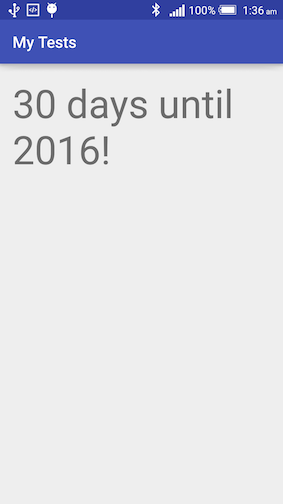
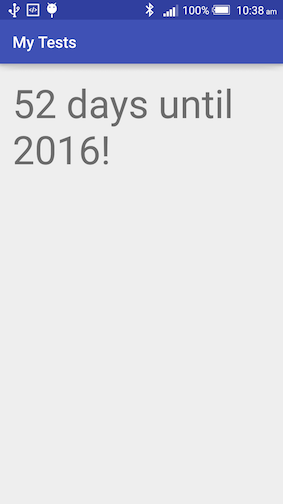
md7 50%

Changed region(s): [[0.5088, 0.0, 0.8763, 0.0595], [0.0565, 0.1786, 0.1979, 0.2381], [0.9046, 0.0, 0.9329, 0.0298]]

diff --git a/Week_07_Testing/MyTests/app/src/test/java/com/example/jianhuayang/mytests/DeadlineTest.java b/Week_07_Testing/MyTests/app/src/test/java/com/example/jianhuayang/mytests/DeadlineTest.java
@@ -16,7 +16,7 @@ import org.junit.runner.RunWith;
 import org.mockito.Mock;
 import org.mockito.runners.MockitoJUnitRunner;
 
-import static org.junit.Assert.*;
+import static org.junit.Assert.assertEquals;
 
 /**
  * Created by jianhuayang on 06/11/2015.
@@ -38,7 +38,6 @@ public class DeadlineTest {
     SharedPreferences.Editor editor;
 
     private Deadline deadline;
-
 
     @Test
     public void testCalculate() throws Exception {

diff --git a/Week_07_Testing/MyTests/app/src/main/java/com/example/jianhuayang/mytests/Deadline.java b/Week_07_Testing/MyTests/app/src/main/java/com/example/jianhuayang/mytests/Deadline.java
@@ -41,7 +41,7 @@ public class Deadline {
         Date submission;
         try {
             submission = dateFormat.parse("18/12/15");
-            return (int) (submission.getTime() - date.getTime() )/ (1000 * 60 * 60 * 24);
+            return (int) ((submission.getTime() - date.getTime() )/ (1000 * 60 * 60 * 24));
         } catch (ParseException e) {
             e.printStackTrace();
             return -1;

diff --git a/Week_07_Testing/README.md b/Week_07_Testing/README.md
@@ -97,13 +97,24 @@ Let's have a look at the default tests generated by Android Studio
     
     ![](.md_images/export.png)
     
-    > If you follow tutorials you found on the web, some talks about HTML reports generated in build/reports folder. Forget about it, that has been deprecated already!
+    > If you follow tutorials you found on the web, some talks about HTML reports generated in build/reports folder. Forget about it, those has been deprecated!
 
 Now you have just finished your first ever tests!
 
 ### The 'Deadline' app
 
-To do some testing excercises we'll need to create an app. Here I created an app that calculates the days left until 387COM assignment deadline (how exciting!). This is a simple app and doesn't require much explanation.
+To do some testing excercises we'll need to create an app. Here we use an app that calculates the days left until 387COM assignment deadline (how exciting!). The idea of the app is that given the current date in the format of dd/mm/yy, the app should 
+
+* Display how many days left until coursework submission once you click 'Update'.
+
+    ![](.md_images/update.png)
+
+* Save current date to SharedPreferences once you click 'Save'.
+* Send current date to new activity once you click 'Send'.
+
+    ![](.md_images/send.png)
+
+Follow steps below to create the app. This is a simple app and should be self-explanary.
 
 1. Replace what's in content_main.xml with the following:
     
@@ -219,7 +230,7 @@ To do some testing excercises we'll need to create an app. Here I created an app
         Date submission;
         try {
             submission = dateFormat.parse("18/12/15");
-            return (int) (submission.getTime() - date.getTime() )/ (1000 * 60 * 60 * 24);
+            return (int) ((submission.getTime() - date.getTime() )/ (1000 * 60 * 60 * 24));
         } catch (ParseException e) {
             e.printStackTrace();
             return -1;
@@ -234,6 +245,8 @@ To do some testing excercises we'll need to create an app. Here I created an app
     }
     }
     ```
+    
+    This class has two methods. The `calculate()` method calculates the time difference in days between the input and the submission deadline which is 18/12/15. The `save()` method save the date data in a SharedPreferences xml file.
     
 3. Open MainActivity.java, insert the following within the class definition:
     
@@ -311,29 +324,146 @@ To do some testing excercises we'll need to create an app. Here I created an app
     }
     ```
     
-The idea of the app is that given the current date in the format of dd/mm/yy, the app should 
-
-* Display how many days left until coursework submission once you click 'Update'
-
-    ![](.md_images/update.png)
-
-* Save current date to SharedPreferences once you click 'Save'
-* Send current date to new activity once you click 'Send'
-
-    ![](.md_images/send.png)
-
 
 ### Local unit tests
 
+The critial part of the app above is the ability to calculate time difference. Now let's design a test for this.
+
+1. Make sure Unit Tests is selected in Build Variants tool window.
+2. Open Deadline.java, navigate your cursor to be within the class body (not within member methods), right-click and select Go To ==> Test.
+    
+    ![](.md_images/goto.png)
+    
+3. In the window that pops up, select Create New Test. Then change from JUnit3 to Junit4, check the 'calculate' box, click OK.
+    
+    ![](.md_images/goto.png)
+    
+    We just created created a testing class for Deadline, and this new class appears in the test package.
+    
+    ![](.md_images/testclass.png)
+    
+4. Insert the following into `DeadlineTest()` so it becomes
+    
+    ```java
+    @Test
+    public void testCalculate() throws Exception {
+        Deadline deadline = new Deadline("17/12/15");
+        assertEquals(deadline.calculate(), 1);
+    }
+    ```
+    
+    The test itself is a public class. Here we use an annotation to mark the actual test we want to run, which is a member method in that class. We then simply declare a new instance of the class that we know the claculation result.
+    
+5. If you right-click on the DeadlineTest in Project tool window and click Run 'DeadlineTest', you'll see something similar to below:
+    
+    ![](.md_images/unitresult.png)
+    
+    The test runs at local JVM and finishes without any error. If you change assertion to `assertEquals(deadline.calculate(), 2)` and run it, what happens?
+
 ### Local mocked unit tests
 
+The test we did above used a Deadline constructor that doesn't require the Context input parameter. This is becuase Context is Android dependant we cannot run it on a local JVM. The way to get around this is to use a mocking framwork called Mockito.
 
+1. Open build.gradle (Module: app), insert Mockito and Hamcrest dependencies so it becomes
+    
+    ```xml
+    dependencies {
+        compile fileTree(dir: 'libs', include: ['*.jar'])
+        testCompile 'junit:junit:4.12'
+        testCompile 'org.mockito:mockito-core:1.10.19'
+        testCompile 'org.hamcrest:hamcrest-library:1.1'
+        compile 'com.android.support:appcompat-v7:23.1.0'
+        compile 'com.android.support:design:23.1.0'
+    }
+    ```
+    
+    Mmockito is a mocking framework, and Hamcrest is a package to make testing more readable. You'll see later.
+    
+2. Paste the following codes to replace the class body of DeadlineTest
+    
+    ```java
+    @SmallTest
+    @RunWith(MockitoJUnitRunner.class)
+    public class DeadlineTest {
+    
+        @Mock
+        Context context;
+        
+        @Mock
+        Activity activity;
+        
+        @Mock
+        SharedPreferences sharedPreferences;
+        
+        @Mock
+        SharedPreferences.Editor editor;
+        
+        private Deadline deadline;
+        
+        @Test
+        public void testCalculate() throws Exception {
+            Deadline deadline = new Deadline("17/12/15");
+            assertEquals(deadline.calculate(), 1);
+
+        }
+
+        @Test
+        public void testCalculate2() throws Exception {
+            Deadline deadline = new Deadline("16/12/15", context);
+            assertThat("check if time interval is calculated properly", deadline.calculate(), is(equalTo(2)));
+
+        }
+
+        @Before
+        public void initTests() {
+            deadline = new Deadline("15/12/15", activity);
+        }
+
+        @Test
+        public void testSave() throws Exception {
+
+            when(activity.getPreferences(Context.MODE_PRIVATE)).thenReturn(sharedPreferences);
+            when(sharedPreferences.edit()).thenReturn(editor);
+            when(editor.commit()).thenReturn(true);
+            assertThat(deadline.save(), is(true));
+        }
+    }
+    ```
+    
+    There're quite a lot going on here:
+    * `@SmallTest` is a way to classify different tests, as you guessed, so later on we can ask the system to run for example SmallTests only. Check out [here](http://developer.android.com/tools/testing/testing_otheride.html) for an example. Also this [StackOverflow page](http://stackoverflow.com/questions/4671923/what-is-the-purpose-of-smalltest-mediumtest-and-largetest-annotations-in-an) for the differences among SmallTest, MediumTest and LargeTest.
+    * `@RunWith` line specifies the Runner of the current testing class. A Runner is merely another class that is designed to perform some specific functions. In the current case, MockitoJUnitRunner will mock our dependencies in Android system. An example Runner is something like below (example taken from [TutorialsPoint](http://www.tutorialspoint.com/junit/junit_suite_test.htm))
+    ```
+    import org.junit.runner.JUnitCore;
+    import org.junit.runner.Result;
+    import org.junit.runner.notification.Failure;
+    
+    public class TestRunner {
+        public static void main(String[] args) {
+           Result result = JUnitCore.runClasses(JunitTestSuite.class);
+           for (Failure failure : result.getFailures()) {
+              System.out.println(failure.toString());
+           }
+           System.out.println(result.wasSuccessful());
+        }
+    }
+    ```
+    * `@Mock` line indicates a variable is being mocked. When being mocked, all methods of the class throw exceptions. This is because the android.jar file that is used to run unit tests does not contain any actual code. For more details on this, read [here](http://tools.android.com/tech-docs/unit-testing-support)
+    * `@Before` line indicates the code block will be invoked before each test. You should use this annotation to specify a block of code with test setup operations.
+    * In `testSave()` method we used `when().thenReturn()` to mock the behavior of mocked classes. This is because context/activity etc. are all mocked objects, which don't contain any actual methods. You'll need to supply some results once there methods are called.
+    * Note in line `assertThat("check if time interval is calculated properly", deadline.calculate(), is(equalTo(2)))` we used `assertThat`, `is` and `equalTo` from Hamcrest to increase readability. But this is essentially the same as `assertEquals(deadline.calculate(), 2)`. Here `is` and `equalTo` are both matchers.
+    
+3. Right-click and run DeadlineTest, then export the results to HTML. Locate and open that HTML file, you'll see something similar to below:
+    
+    ![](.md_images/html.png)
 
 ## Lab 2 Instrumented testing
 
-instrumented testing
+Tests we've done so far run on local JVM and don't require Androd devices. If you need to access Android system resources such as Context you need to test your app on an actual device or an AVD. Android instrumentation is a set of control methods or 'hooks' in the Android system. With Android instrumentation, you can invoke for example activity callback methods in your test code. This gives you fine-control of everything.
 
 ### Instrumented unit tests
+
+
 
 ### UI tests using Espresso
 
